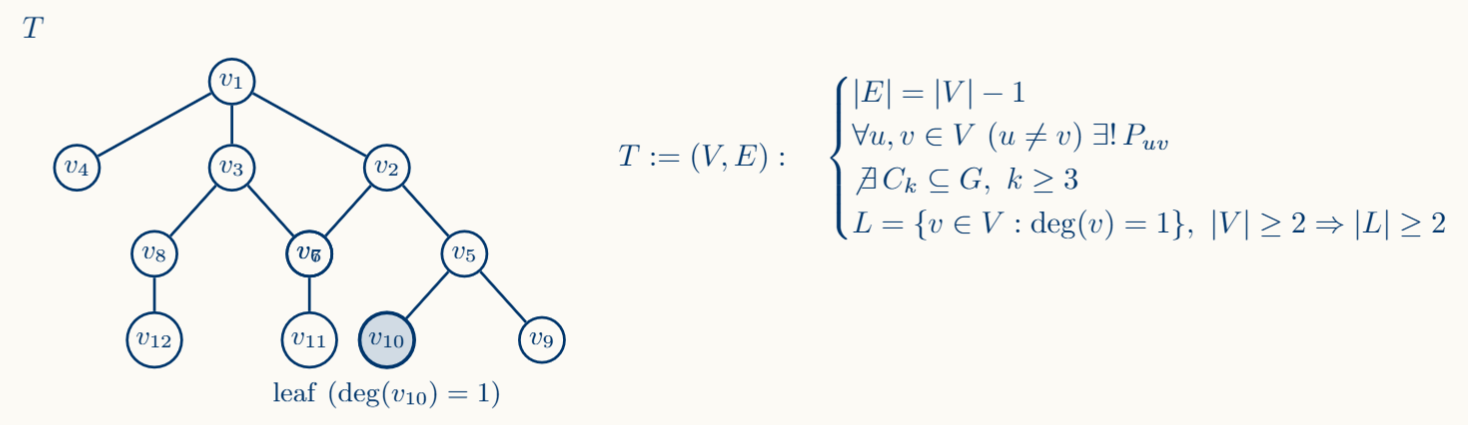
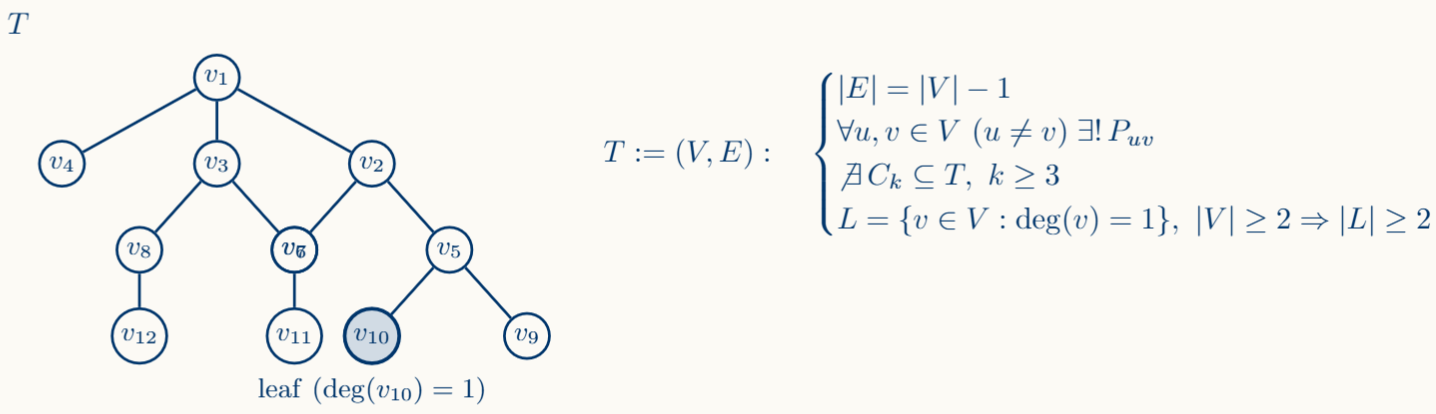
Arithmetic

diff --git a/_posts/2026-02-07-Arithmetic_Circuits.md b/_posts/2026-02-07-Arithmetic_Circuits.md
@@ -103,7 +103,7 @@ So $deg(v_0) = deg(v_k) = 1$ and both are leaf in $T$.
 
 **Equivalences**
 
-If $T:= (V,E)$ is a tree, then:
+The following statements are equivalent:
 
 1. $T$ is connected and $\vert E \vert = \vert V \vert - 1$
 
@@ -137,9 +137,20 @@ If $T:= (V,E)$ is a tree, then:
 
 <br>
 
-3. Between two any vertices there is a unique path. Reasoning to the absurd, if between $l,t \in V$ would exists more than one path, lets say: $t,u_0,...,u_{k-1},l$ and $l,v_0,...,v_k{-1},t$, then $t,u_0,...,u_{k-1},l,v_0,...,v_k{-1},t$ would be a cycle contradicting acycling in trees.
+3. Between two any vertices there is a unique path. Reasoning to the absurd, if between $l,t \in V$ would exists more than one path, lets say: $t,u_0,...,u_{k-1},l$ and $l,v_0,...,v_{k-1},t$, then $t,u_0,...,u_{k-1},l,v_0,...,v_k{-1},t$ would be a cycle contradicting acycling in trees.
 
+4. $T$ is minimally connected: removing any edge disconnects it.
 
+    Observe that this stems from the uniqueness of the path for any pair of vertices. Meaning that, if $e=\Set{u,v} \in E$, then exists a *unique* path $P = t,...,u,v,...l$ in $T$ and removing $e$ from $E$ leaves no path between $u$ and $v$ contradicting the connectness premise on $T$ as a tree.
+
+    <br>
+
+5. $T$ is maximally acyclic: adding any missing edge creates a cycle.
+
+    Let's consider $u,v \in V : $u \ \cancel{\sim} \ v$, then, since $T$ is connected, exists a path $u,...,v \in T$ and forcing $\Set{u,v} \in E \implies C = u,...v,u \subset T$ contradicting acyclicness.
+
+    <br>
+    
 ## 2.2. Basic Algebra: Rings and Fields.
 
 ## 2.3. Polynomies.
